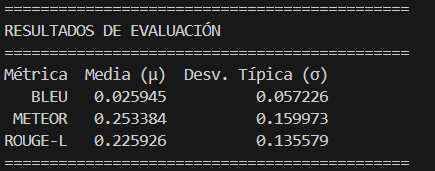
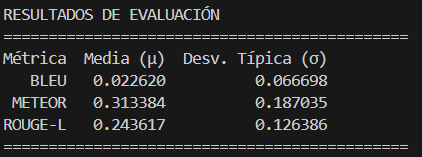
Nuevo dataset y sustituido proveedor Gemini por Mistral

Changed region(s): [[0.0, 0.2803, 0.955, 0.8662], [0.0, 0.0255, 0.9858, 0.2548], [0.0, 0.9172, 0.9858, 0.9682]]

diff --git a/app.py b/app.py
@@ -13,8 +13,7 @@ import warnings
 from abc import ABC, abstractmethod
 from elasticsearch import Elasticsearch
 from sentence_transformers import SentenceTransformer
-from google import genai
-from google.genai import types
+from mistralai import Mistral
 from groq import Groq
 
 #############################
@@ -58,24 +57,24 @@ class LLMProvider(ABC):
 ## 2. IMPLEMENTACIONES DE PROVEEDORES  ##
 #########################################
 
-class GeminiProvider(LLMProvider):
-    """Implementación del proveedor Google Gemini."""
+class MistralProvider(LLMProvider):
+    """Implementación del proveedor Mistral AI."""
 
     def __init__(self, api_key, model_name):
         """
-        Constructor de la clase GeminiProvider.
+        Constructor de la clase MistralProvider.
 
         Args:
-            api_key (str): Clave de API para autenticación en Google AI.
+            api_key (str): Clave de API para autenticación en Mistral AI.
             model_name (str): Identificador del modelo.
         """
         self.api_key = api_key
         self.model_name = model_name
-        self.client = genai.Client(api_key=self.api_key)
+        self.client = Mistral(api_key=self.api_key)
 
     def generate(self, prompt: str) -> str:
         """
-        Envía el prompt a la API de Gemini con instrucciones de sistema.
+        Envía el prompt a la API de Mistral con instrucciones de sistema.
 
         Args:
             prompt (str): Texto que combina contexto y pregunta del usuario.
@@ -84,21 +83,21 @@ class GeminiProvider(LLMProvider):
             str: Texto generado por el modelo o mensaje de error.
         """
         if not self.api_key:
-            return "ERROR: Clave GEMINI_API_KEY no configurada."
+            return "ERROR: Clave MISTRAL_API_KEY no configurada."
         try:
             sys_instr = "Eres un Asistente de Guías Docentes. Responde basándote SOLO en el contexto."
             
-            response = self.client.models.generate_content(
+            response = self.client.chat.complete(
                 model=self.model_name,
-                contents=prompt,
-                config=types.GenerateContentConfig(
-                    system_instruction=sys_instr,
-                    temperature=0.0
-                )
+                messages=[
+                    {"role": "system", "content": sys_instr},
+                    {"role": "user", "content": prompt}
+                ],
+                temperature=0.0
             )
-            return response.text
+            return response.choices[0].message.content
         except Exception as e:
-            return f"ERROR Gemini: {e}"
+            return f"ERROR Mistral: {e}"
 
 class GroqProvider(LLMProvider):
     """Implementación del proveedor Groq."""
@@ -211,8 +210,8 @@ def get_llm_provider(force_provider_name=None) -> LLMProvider:
     if not options:
         raise ValueError(f"Configuración no encontrada para: {active_llm}")
 
-    if active_llm == "gemini":
-        return GeminiProvider(
+    if active_llm == "mistral":
+        return MistralProvider(
             api_key=options.get("api_key"),
             model_name=options["model"]
         )
